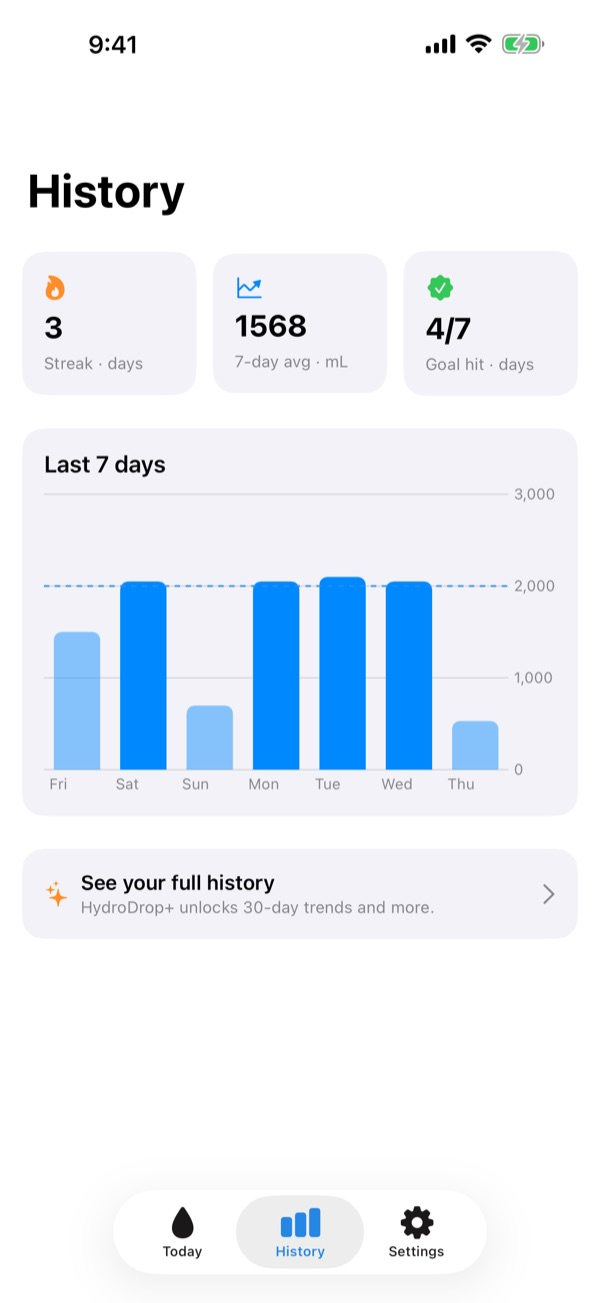
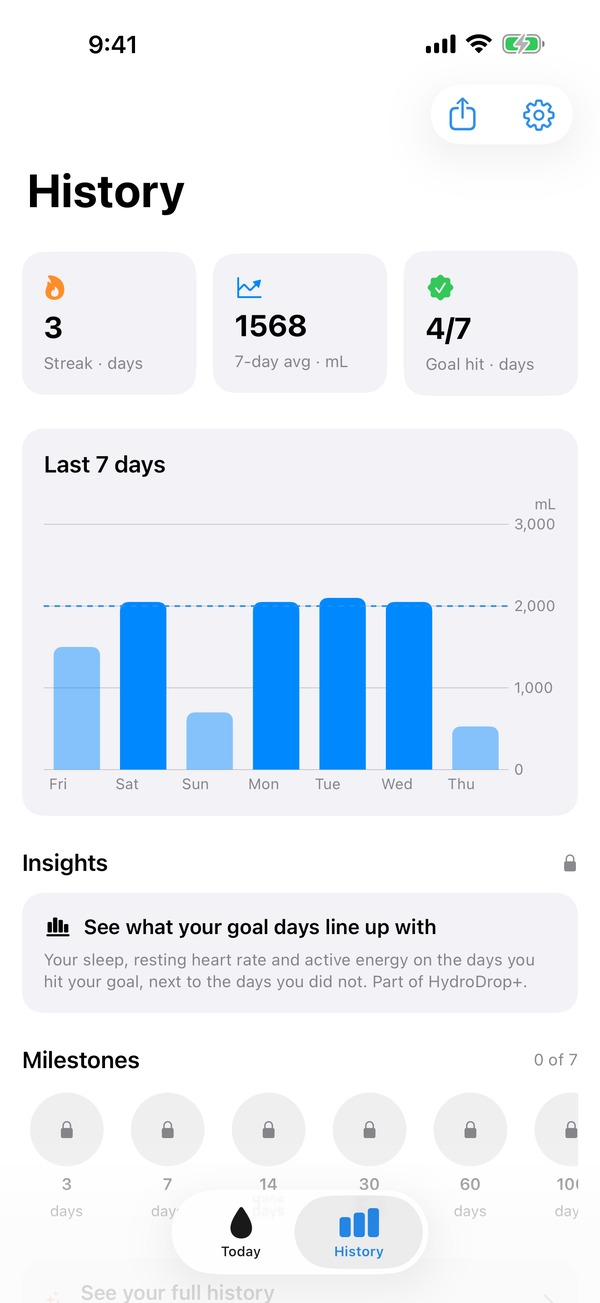
Put the new Today and History on the website, and let the scroll bar fade
The landing page's two screenshots are the new captures, scaled to the same
600 by 1303 the page lays them out at: Today with the world and the Settings
gear, and History without the Settings tab.

The Today capture also had the scroll indicator down its right edge, left over
from scrolling back to the header. The test now waits for it to fade.

Claude-Session: https://claude.ai/code/session_01Daizj4HsP9T2w9kE5TdZYx

diff --git a/HydroDropScreenshotUITests/ScreenshotUITests.swift b/HydroDropScreenshotUITests/ScreenshotUITests.swift
@@ -46,10 +46,15 @@ final class ScreenshotUITests: XCTestCase {
         // The quick adds sit below the world, so tapping them scrolled Today down past
         // its title, streak and Settings gear. Back to the top before the capture.
         let settingsButton = app.buttons["Settings"].firstMatch
-        for _ in 0..<4 where !(settingsButton.exists && settingsButton.isHittable) {
+        var swipes = 0
+        while swipes < 4, !(settingsButton.exists && settingsButton.isHittable) {
             app.scrollViews.firstMatch.swipeDown()
+            swipes += 1
         }
         XCTAssertTrue(settingsButton.isHittable, "Today didn't scroll back up to its header")
+        // Scrolling brings up the scroll indicator down the right edge, which takes a
+        // moment to fade and otherwise ends up in the capture.
+        if swipes > 0 { sleep(2) }
         save(app.screenshot(), name: "01-today")
 
         app.tabBars.buttons["History"].tap()
